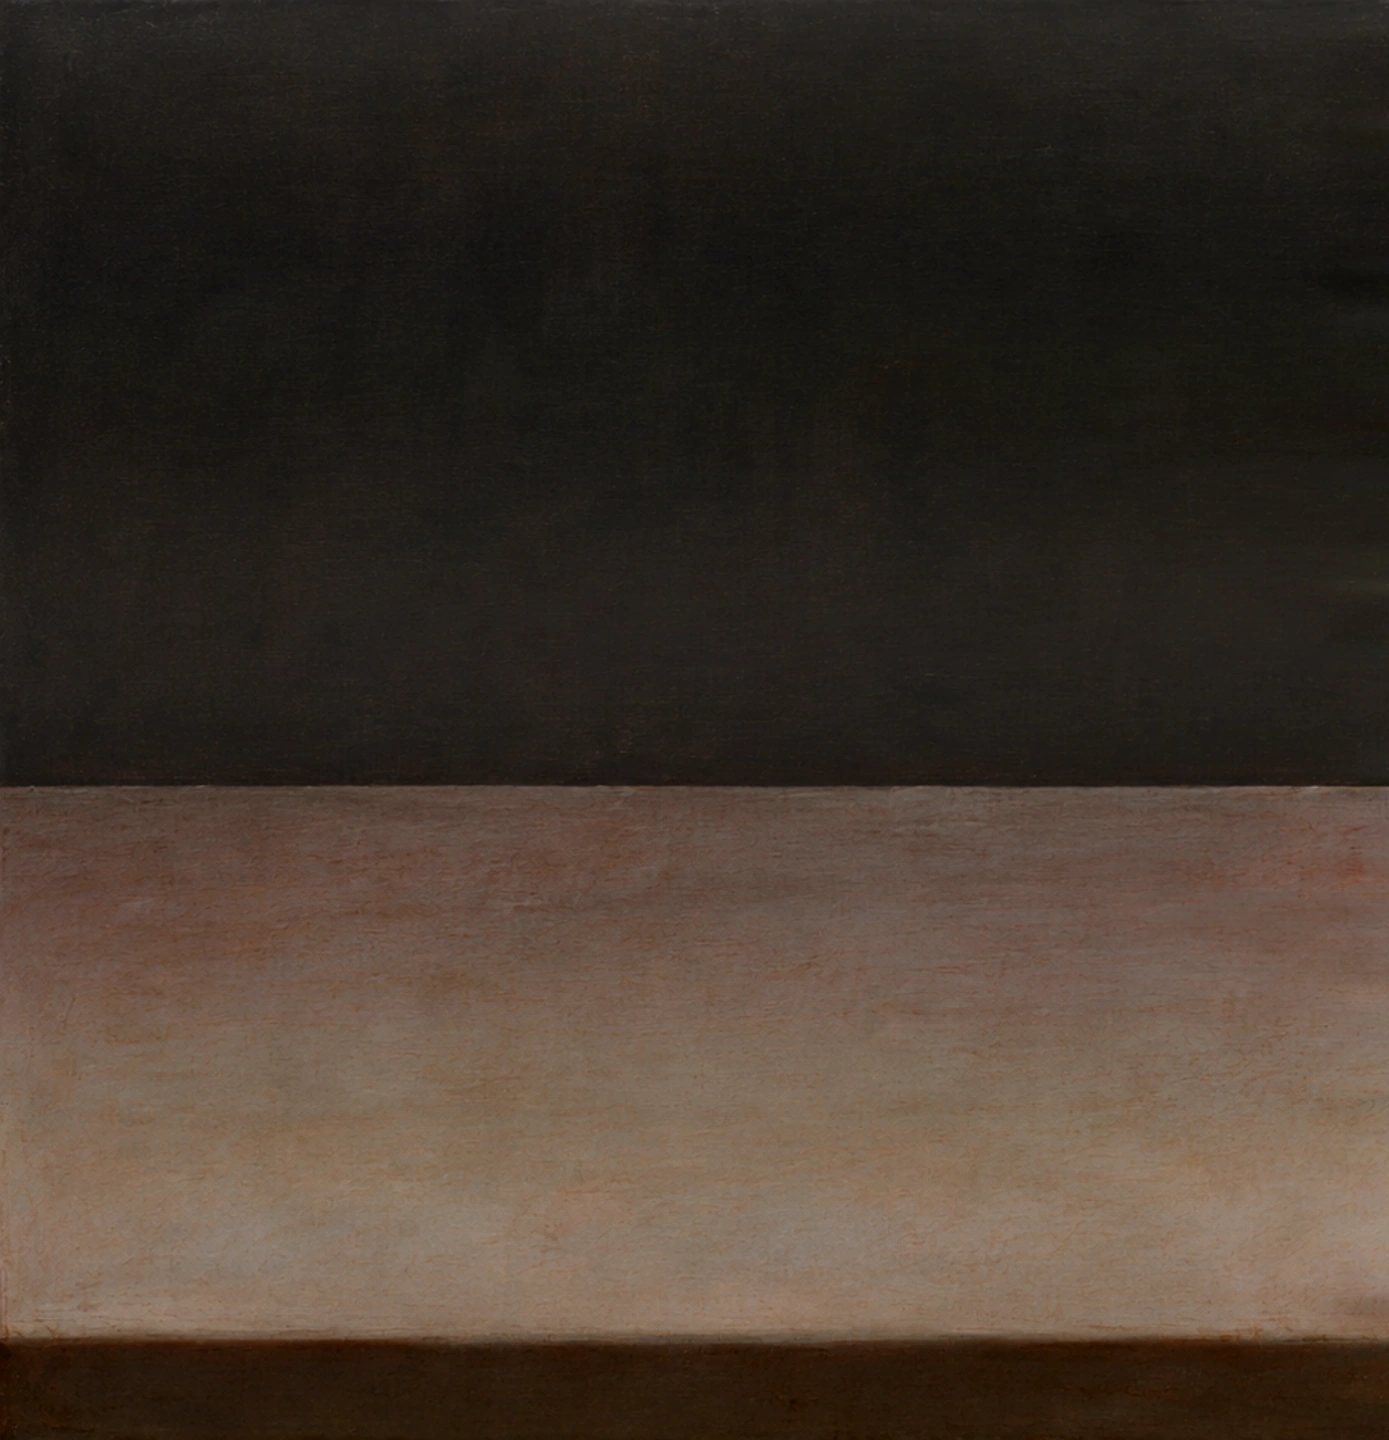
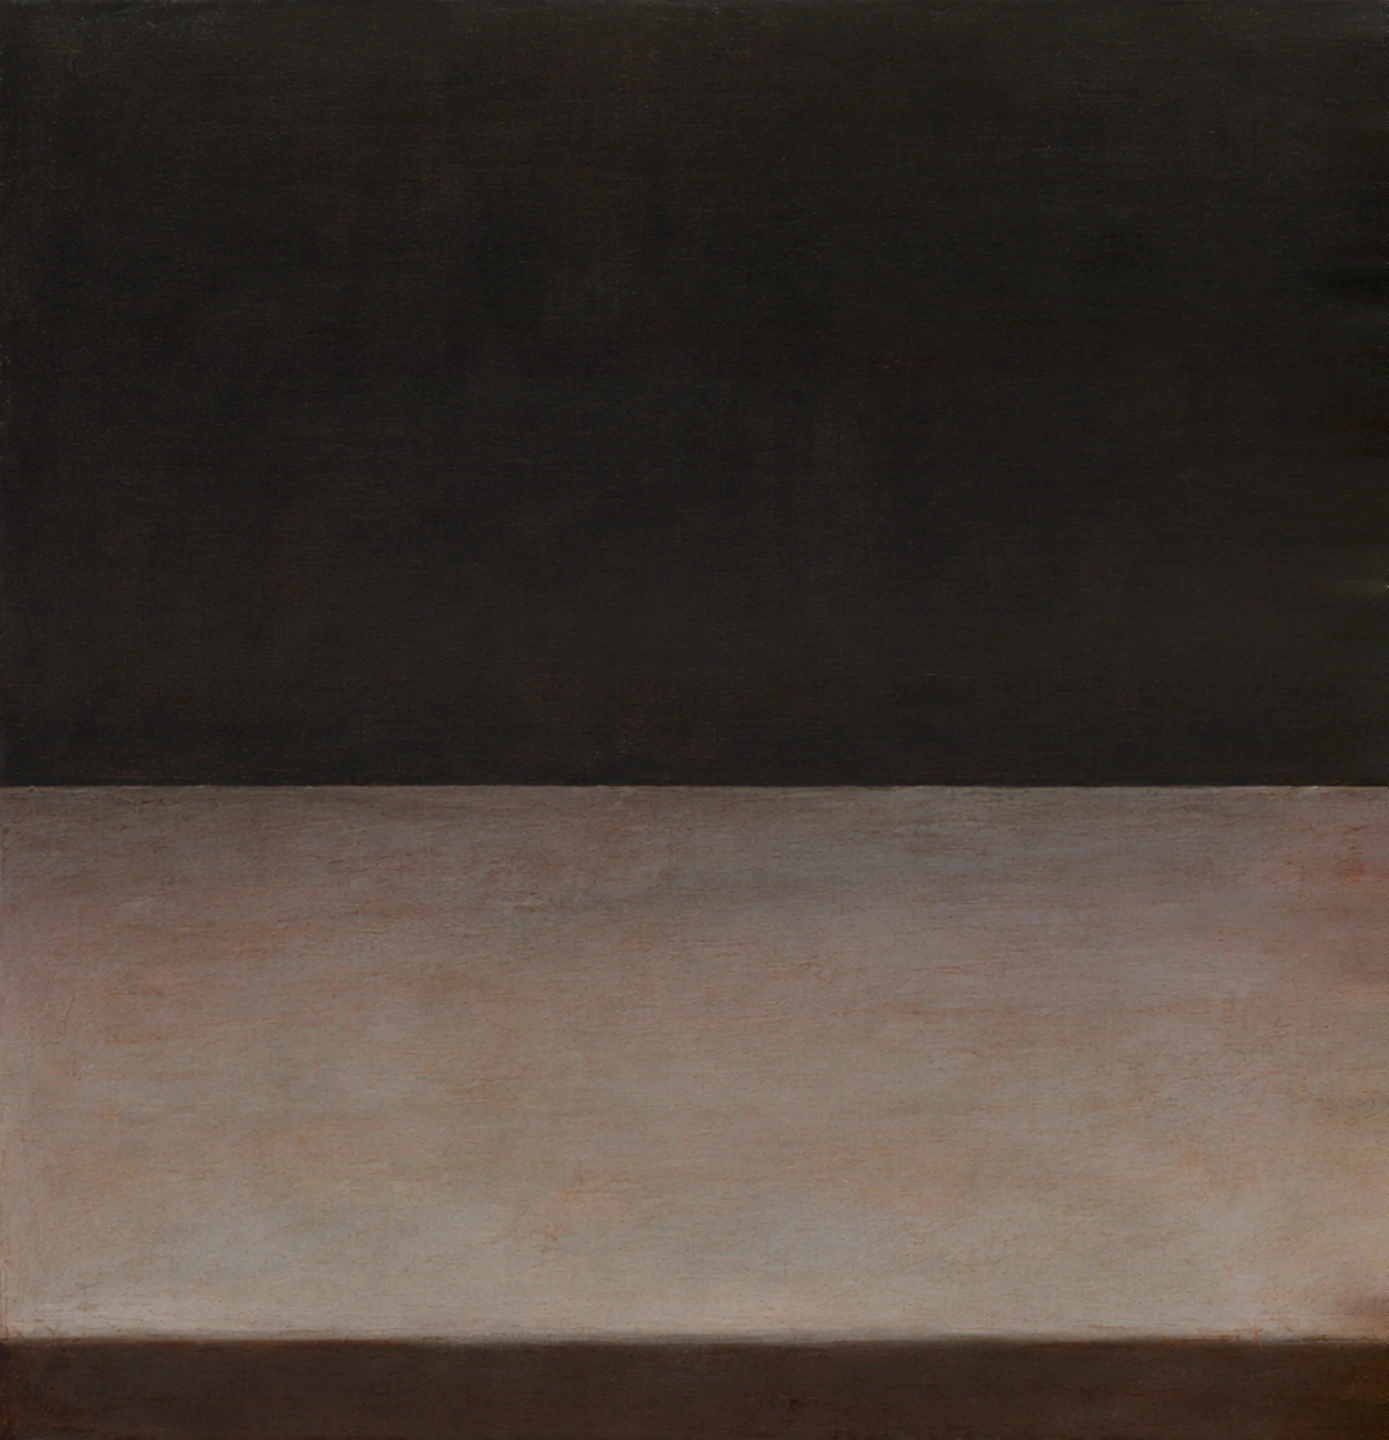
Match ultrawide colors and repair six background extensions

Changed region(s): [[0.0, 0.875, 0.9287, 0.9688]]

diff --git a/docs/ultrawide-backgrounds.md b/docs/ultrawide-backgrounds.md
@@ -6,13 +6,17 @@ Each built-in still background has a same-stem `@32x9.svg` variant for a 5120×1
 
 The SVG references the original raster directly, centers its complete composition, and scales it proportionally to the canvas height. Its source file is unchanged. Normal display resampling applies, but no generated pixels, color adjustments, crops, or compression are applied to the original artwork.
 
-The surrounding scenery lives in separate WebP side panels under each theme's `backgrounds/ultrawide/` directory. Generated panels use quality 95; simple edge-color fields use lossless encoding. The original is drawn last over a one-pixel underlap that keeps fractional raster boundaries opaque. The visible panels fill the space outside it. Keep these relative resources together when copying a theme. These SVGs compose raster artwork; they do not convert it to vector paths.
+The surrounding scenery lives in separate WebP side panels under each theme's `backgrounds/ultrawide/` directory. Generated scenery uses quality 95; source-derived fields and panels requiring dot-grid or chromatic-grain fidelity use lossless encoding. The original is drawn last over a one-pixel underlap that keeps fractional raster boundaries opaque. The visible panels fill the space outside it. Keep these relative resources together when copying a theme. These SVGs compose raster artwork; they do not convert it to vector paths.
 
 ## Extensions
 
 Scenery, photography, textures, and complex illustrations use generative outpainting through Codex's built-in image generator. Each side was generated with the adjacent original as context. Only pixels in the new outer area were retained; the generator's rendition of the original was discarded. Palette and boundary corrections affect the generated panels only.
 
 Uniform backgrounds behind wordmarks and isolated motifs use the original field color. Designs with horizontal color bands continue their source edge colors by row. This preserves the existing typography, symbols, and line work without regenerating them.
+
+The dotted forearm extensions use a grid registered to the original dot positions and sizes. The original hands, fingertip spacing, and credit remain in the unchanged center raster. These source-derived panels use lossless WebP.
+
+Painted scenery matches the original interior palette separately from its darker scan edges. Corrections at the joins affect the side panels only.
 
 [The provenance manifest](assets/ultrawide/provenance.json) records the source hashes, extension methods, and generation prompts. [The gallery](assets/ultrawide/gallery.md) shows all complete 32:9 compositions for review. Boot intro videos retain their existing framing.
 

diff --git a/docs/assets/ultrawide/gallery.md b/docs/assets/ultrawide/gallery.md
@@ -2,6 +2,8 @@
 
 All 98 compositions, rendered at 5120×1440 and reduced for this review gallery. The runtime assets retain their full original source images.
 
+[Before and after: Gruvbox 1–2, Last Horizon 2–4, and Matte Black 2](revision-comparison.webp). All original center artwork remains unchanged.
+
 ## catppuccin, catppuccin-latte, ethereal, everforest
 
 ![32:9 background review sheet 1](gallery-1.webp)
